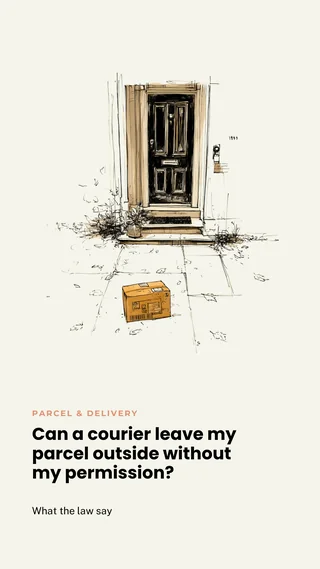
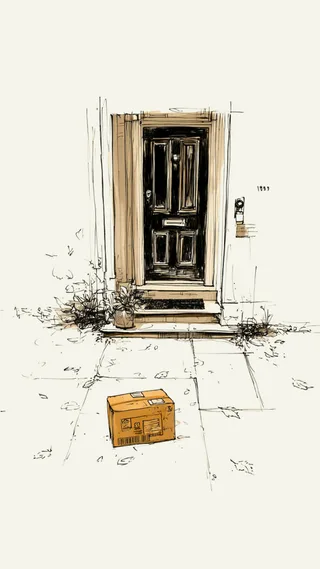
Parcel & Delivery questions: title-free card images, hero images, real card text
Same treatment as the Flights & Travel, Employment, Crypto & Fintech,
Food & Hospitality, Training & Education, Finance & Banking, Healthcare &
Medical, and Housing & Rentals batches, now for Parcel & Delivery
(5 articles), including the pillar page. This completes the treatment for
every question block listed in questions.html's tabs.

1. Replace the 5 small card images in images/questions/delivery-parcels/
   with new title-free versions — same filenames, same 1200x2133 dims —
   and regenerate the .webp/-320w.webp/-410w.webp variants from them.

2. Add a dedicated 1600x900 hero image to each of the 5 Parcel & Delivery
   question articles via the established .q-hero-image class (visible at
   all breakpoints, unlike the sitewide .hero-image which is display:none
   on mobile).

3. Fix /questions/ index cards (both "all" and "delivery-parcels" tab
   panels): title and category are now real HTML text
   (<h3 class="q-card-title">, <span class="q-card-category">) below
   each image, reusing the .q-card component from the earlier batches —
   no new CSS needed.

4. Fix the Parcel & Delivery pillar page (delivery-parcels.html): applied
   the same .q-card/.q-card-category/.q-card-title structure (wrapping
   the existing <picture>/webp markup) so title/category render as real
   text here too. Left the page's Calculators section (added in an
   earlier commit) untouched.

diff --git a/delivery-parcels.html b/delivery-parcels.html
@@ -495,28 +495,49 @@
        zero DOM nodes for them. Not a "Coming soon" message — nothing at all. -->
   <div id="chFutureSections"></div>
 
-  <!-- QUESTIONS — image-only cards, same .q-card-grid/.q-img-card component as
-       questions.html and the other pillar pages. Static (not JS-rendered like
-       Calculators/Cases/Investigations above) since this section, unlike those,
+  <!-- QUESTIONS — image + category + title cards, same .q-card-grid/.q-card
+       component as questions.html and the other pillar pages (title/category
+       are real HTML text, never baked into the image). Static (not JS-rendered
+       like Calculators/Cases/Investigations above) since this section, unlike those,
        isn't meant to silently disappear if empty. -->
   <section aria-labelledby="ch-questions-h2" style="margin-top: 56px;">
     <h2 id="ch-questions-h2" class="cl-hub-cat">Questions</h2>
     <p class="cl-hub-cat-sub">Real questions about lost, damaged, late, and undelivered parcels — answered with the exact US and UK law that applies. <a href="/questions">See all Questions →</a></p>
     <div class="q-card-grid">
-      <a class="q-img-card" href="/questions/delivery-parcels/can-courier-leave-parcel-outside-without-permission">
-        <picture><source srcset="/images/questions/delivery-parcels/can-courier-leave-parcel-outside-without-permission-320w.webp 320w, /images/questions/delivery-parcels/can-courier-leave-parcel-outside-without-permission-410w.webp 410w, /images/questions/delivery-parcels/can-courier-leave-parcel-outside-without-permission.webp 540w" sizes="(min-width: 960px) 265px, (min-width: 640px) 205px, 160px" type="image/webp"><img src="/images/questions/delivery-parcels/can-courier-leave-parcel-outside-without-permission.png" alt="Can a courier leave my parcel outside without my permission?" loading="lazy" width="1200" height="2133"></picture>
+      <a class="q-card" href="/questions/delivery-parcels/can-courier-leave-parcel-outside-without-permission">
+        <div class="q-img-card">
+          <picture><source srcset="/images/questions/delivery-parcels/can-courier-leave-parcel-outside-without-permission-320w.webp 320w, /images/questions/delivery-parcels/can-courier-leave-parcel-outside-without-permission-410w.webp 410w, /images/questions/delivery-parcels/can-courier-leave-parcel-outside-without-permission.webp 540w" sizes="(min-width: 960px) 265px, (min-width: 640px) 205px, 160px" type="image/webp"><img src="/images/questions/delivery-parcels/can-courier-leave-parcel-outside-without-permission.png" alt="Can a courier leave my parcel outside without my permission?" loading="lazy" width="1200" height="2133"></picture>
+        </div>
+        <span class="q-card-category">Parcel &amp; Delivery</span>
+        <h3 class="q-card-title">Can a courier leave my parcel outside without my permission?</h3>
       </a>
-      <a class="q-img-card" href="/questions/delivery-parcels/who-is-responsible-parcel-delivered-not-received">
-        <picture><source srcset="/images/questions/delivery-parcels/who-is-responsible-parcel-delivered-not-received-320w.webp 320w, /images/questions/delivery-parcels/who-is-responsible-parcel-delivered-not-received-410w.webp 410w, /images/questions/delivery-parcels/who-is-responsible-parcel-delivered-not-received.webp 540w" sizes="(min-width: 960px) 265px, (min-width: 640px) 205px, 160px" type="image/webp"><img src="/images/questions/delivery-parcels/who-is-responsible-parcel-delivered-not-received.png" alt="Who is responsible if my parcel says delivered but I never received it?" loading="lazy" width="1200" height="2133"></picture>
+      <a class="q-card" href="/questions/delivery-parcels/who-is-responsible-parcel-delivered-not-received">
+        <div class="q-img-card">
+          <picture><source srcset="/images/questions/delivery-parcels/who-is-responsible-parcel-delivered-not-received-320w.webp 320w, /images/questions/delivery-parcels/who-is-responsible-parcel-delivered-not-received-410w.webp 410w, /images/questions/delivery-parcels/who-is-responsible-parcel-delivered-not-received.webp 540w" sizes="(min-width: 960px) 265px, (min-width: 640px) 205px, 160px" type="image/webp"><img src="/images/questions/delivery-parcels/who-is-responsible-parcel-delivered-not-received.png" alt="Who is responsible if my parcel says delivered but I never received it?" loading="lazy" width="1200" height="2133"></picture>
+        </div>
+        <span class="q-card-category">Parcel &amp; Delivery</span>
+        <h3 class="q-card-title">Who is responsible if my parcel says delivered but I never received it?</h3>
       </a>
-      <a class="q-img-card" href="/questions/delivery-parcels/who-pays-courier-damages-package">
-        <picture><source srcset="/images/questions/delivery-parcels/who-pays-courier-damages-package-320w.webp 320w, /images/questions/delivery-parcels/who-pays-courier-damages-package-410w.webp 410w, /images/questions/delivery-parcels/who-pays-courier-damages-package.webp 540w" sizes="(min-width: 960px) 265px, (min-width: 640px) 205px, 160px" type="image/webp"><img src="/images/questions/delivery-parcels/who-pays-courier-damages-package.png" alt="Who pays if a courier damages my package?" loading="lazy" width="1200" height="2133"></picture>
+      <a class="q-card" href="/questions/delivery-parcels/who-pays-courier-damages-package">
+        <div class="q-img-card">
+          <picture><source srcset="/images/questions/delivery-parcels/who-pays-courier-damages-package-320w.webp 320w, /images/questions/delivery-parcels/who-pays-courier-damages-package-410w.webp 410w, /images/questions/delivery-parcels/who-pays-courier-damages-package.webp 540w" sizes="(min-width: 960px) 265px, (min-width: 640px) 205px, 160px" type="image/webp"><img src="/images/questions/delivery-parcels/who-pays-courier-damages-package.png" alt="Who pays if a courier damages my package?" loading="lazy" width="1200" height="2133"></picture>
+        </div>
+        <span class="q-card-category">Parcel &amp; Delivery</span>
+        <h3 class="q-card-title">Who pays if a courier damages my package?</h3>
       </a>
-      <a class="q-img-card" href="/questions/delivery-parcels/can-i-demand-refund-parcel-arrives-weeks-late">
-        <picture><source srcset="/images/questions/delivery-parcels/can-i-demand-refund-parcel-arrives-weeks-late-320w.webp 320w, /images/questions/delivery-parcels/can-i-demand-refund-parcel-arrives-weeks-late-410w.webp 410w, /images/questions/delivery-parcels/can-i-demand-refund-parcel-arrives-weeks-late.webp 540w" sizes="(min-width: 960px) 265px, (min-width: 640px) 205px, 160px" type="image/webp"><img src="/images/questions/delivery-parcels/can-i-demand-refund-parcel-arrives-weeks-late.png" alt="Can I demand a refund if my parcel arrives weeks late?" loading="lazy" width="1200" height="2133"></picture>
+      <a class="q-card" href="/questions/delivery-parcels/can-i-demand-refund-parcel-arrives-weeks-late">
+        <div class="q-img-card">
+          <picture><source srcset="/images/questions/delivery-parcels/can-i-demand-refund-parcel-arrives-weeks-late-320w.webp 320w, /images/questions/delivery-parcels/can-i-demand-refund-parcel-arrives-weeks-late-410w.webp 410w, /images/questions/delivery-parcels/can-i-demand-refund-parcel-arrives-weeks-late.webp 540w" sizes="(min-width: 960px) 265px, (min-width: 640px) 205px, 160px" type="image/webp"><img src="/images/questions/delivery-parcels/can-i-demand-refund-parcel-arrives-weeks-late.png" alt="Can I demand a refund if my parcel arrives weeks late?" loading="lazy" width="1200" height="2133"></picture>
+        </div>
+        <span class="q-card-category">Parcel &amp; Delivery</span>
+        <h3 class="q-card-title">Can I demand a refund if my parcel arrives weeks late?</h3>
       </a>
-      <a class="q-img-card" href="/questions/delivery-parcels/can-seller-blame-courier-order-arrives-damaged">
-        <picture><source srcset="/images/questions/delivery-parcels/can-seller-blame-courier-order-arrives-damaged-320w.webp 320w, /images/questions/delivery-parcels/can-seller-blame-courier-order-arrives-damaged-410w.webp 410w, /images/questions/delivery-parcels/can-seller-blame-courier-order-arrives-damaged.webp 540w" sizes="(min-width: 960px) 265px, (min-width: 640px) 205px, 160px" type="image/webp"><img src="/images/questions/delivery-parcels/can-seller-blame-courier-order-arrives-damaged.png" alt="Can a seller blame the courier when my order arrives damaged?" loading="lazy" width="1200" height="2133"></picture>
+      <a class="q-card" href="/questions/delivery-parcels/can-seller-blame-courier-order-arrives-damaged">
+        <div class="q-img-card">
+          <picture><source srcset="/images/questions/delivery-parcels/can-seller-blame-courier-order-arrives-damaged-320w.webp 320w, /images/questions/delivery-parcels/can-seller-blame-courier-order-arrives-damaged-410w.webp 410w, /images/questions/delivery-parcels/can-seller-blame-courier-order-arrives-damaged.webp 540w" sizes="(min-width: 960px) 265px, (min-width: 640px) 205px, 160px" type="image/webp"><img src="/images/questions/delivery-parcels/can-seller-blame-courier-order-arrives-damaged.png" alt="Can a seller blame the courier when my order arrives damaged?" loading="lazy" width="1200" height="2133"></picture>
+        </div>
+        <span class="q-card-category">Parcel &amp; Delivery</span>
+        <h3 class="q-card-title">Can a seller blame the courier when my order arrives damaged?</h3>
       </a>
     </div>
   </section>

diff --git a/questions.html b/questions.html
@@ -601,20 +601,40 @@
           <span class="q-card-category">Housing &amp; Rentals</span>
           <h3 class="q-card-title">Can my landlord keep my deposit because I didn&#39;t repaint the walls?</h3>
         </a>
-        <a class="q-img-card" href="/questions/delivery-parcels/can-courier-leave-parcel-outside-without-permission">
-          <img src="/images/questions/delivery-parcels/can-courier-leave-parcel-outside-without-permission.png" alt="Can a courier leave my parcel outside without my permission?" loading="lazy" width="1200" height="2133">
+        <a class="q-card" href="/questions/delivery-parcels/can-courier-leave-parcel-outside-without-permission">
+          <div class="q-img-card">
+            <img src="/images/questions/delivery-parcels/can-courier-leave-parcel-outside-without-permission.png" alt="Can a courier leave my parcel outside without my permission?" loading="lazy" width="1200" height="2133">
+          </div>
+          <span class="q-card-category">Parcel &amp; Delivery</span>
+          <h3 class="q-card-title">Can a courier leave my parcel outside without my permission?</h3>
         </a>
-        <a class="q-img-card" href="/questions/delivery-parcels/who-is-responsible-parcel-delivered-not-received">
-          <img src="/images/questions/delivery-parcels/who-is-responsible-parcel-delivered-not-received.png" alt="Who is responsible if my parcel says delivered but I never received it?" loading="lazy" width="1200" height="2133">
+        <a class="q-card" href="/questions/delivery-parcels/who-is-responsible-parcel-delivered-not-received">
+          <div class="q-img-card">
+            <img src="/images/questions/delivery-parcels/who-is-responsible-parcel-delivered-not-received.png" alt="Who is responsible if my parcel says delivered but I never received it?" loading="lazy" width="1200" height="2133">
+          </div>
+          <span class="q-card-category">Parcel &amp; Delivery</span>
+          <h3 class="q-card-title">Who is responsible if my parcel says delivered but I never received it?</h3>
         </a>
-        <a class="q-img-card" href="/questions/delivery-parcels/who-pays-courier-damages-package">
-          <img src="/images/questions/delivery-parcels/who-pays-courier-damages-package.png" alt="Who pays if a courier damages my package?" loading="lazy" width="1200" height="2133">
+        <a class="q-card" href="/questions/delivery-parcels/who-pays-courier-damages-package">
+          <div class="q-img-card">
+            <img src="/images/questions/delivery-parcels/who-pays-courier-damages-package.png" alt="Who pays if a courier damages my package?" loading="lazy" width="1200" height="2133">
+          </div>
+          <span class="q-card-category">Parcel &amp; Delivery</span>
+          <h3 class="q-card-title">Who pays if a courier damages my package?</h3>
         </a>
-        <a class="q-img-card" href="/questions/delivery-parcels/can-i-demand-refund-parcel-arrives-weeks-late">
-          <img src="/images/questions/delivery-parcels/can-i-demand-refund-parcel-arrives-weeks-late.png" alt="Can I demand a refund if my parcel arrives weeks late?" loading="lazy" width="1200" height="2133">
+        <a class="q-card" href="/questions/delivery-parcels/can-i-demand-refund-parcel-arrives-weeks-late">
+          <div class="q-img-card">
+            <img src="/images/questions/delivery-parcels/can-i-demand-refund-parcel-arrives-weeks-late.png" alt="Can I demand a refund if my parcel arrives weeks late?" loading="lazy" width="1200" height="2133">
+          </div>
+          <span class="q-card-category">Parcel &amp; Delivery</span>
+          <h3 class="q-card-title">Can I demand a refund if my parcel arrives weeks late?</h3>
         </a>
-        <a class="q-img-card" href="/questions/delivery-parcels/can-seller-blame-courier-order-arrives-damaged">
-          <img src="/images/questions/delivery-parcels/can-seller-blame-courier-order-arrives-damaged.png" alt="Can a seller blame the courier when my order arrives damaged?" loading="lazy" width="1200" height="2133">
+        <a class="q-card" href="/questions/delivery-parcels/can-seller-blame-courier-order-arrives-damaged">
+          <div class="q-img-card">
+            <img src="/images/questions/delivery-parcels/can-seller-blame-courier-order-arrives-damaged.png" alt="Can a seller blame the courier when my order arrives damaged?" loading="lazy" width="1200" height="2133">
+          </div>
+          <span class="q-card-category">Parcel &amp; Delivery</span>
+          <h3 class="q-card-title">Can a seller blame the courier when my order arrives damaged?</h3>
         </a>
       </div>
     </div>
@@ -941,20 +961,40 @@
 
     <div class="qh-tool-panel" data-toolpanel="delivery-parcels">
       <div class="q-card-grid">
-        <a class="q-img-card" href="/questions/delivery-parcels/can-courier-leave-parcel-outside-without-permission">
-          <img src="/images/questions/delivery-parcels/can-courier-leave-parcel-outside-without-permission.png" alt="Can a courier leave my parcel outside without my permission?" loading="lazy" width="1200" height="2133">
+        <a class="q-card" href="/questions/delivery-parcels/can-courier-leave-parcel-outside-without-permission">
+          <div class="q-img-card">
+            <img src="/images/questions/delivery-parcels/can-courier-leave-parcel-outside-without-permission.png" alt="Can a courier leave my parcel outside without my permission?" loading="lazy" width="1200" height="2133">
+          </div>
+          <span class="q-card-category">Parcel &amp; Delivery</span>
+          <h3 class="q-card-title">Can a courier leave my parcel outside without my permission?</h3>
         </a>
-        <a class="q-img-card" href="/questions/delivery-parcels/who-is-responsible-parcel-delivered-not-received">
-          <img src="/images/questions/delivery-parcels/who-is-responsible-parcel-delivered-not-received.png" alt="Who is responsible if my parcel says delivered but I never received it?" loading="lazy" width="1200" height="2133">
+        <a class="q-card" href="/questions/delivery-parcels/who-is-responsible-parcel-delivered-not-received">
+          <div class="q-img-card">
+            <img src="/images/questions/delivery-parcels/who-is-responsible-parcel-delivered-not-received.png" alt="Who is responsible if my parcel says delivered but I never received it?" loading="lazy" width="1200" height="2133">
+          </div>
+          <span class="q-card-category">Parcel &amp; Delivery</span>
+          <h3 class="q-card-title">Who is responsible if my parcel says delivered but I never received it?</h3>
         </a>
-        <a class="q-img-card" href="/questions/delivery-parcels/who-pays-courier-damages-package">
-          <img src="/images/questions/delivery-parcels/who-pays-courier-damages-package.png" alt="Who pays if a courier damages my package?" loading="lazy" width="1200" height="2133">
+        <a class="q-card" href="/questions/delivery-parcels/who-pays-courier-damages-package">
+          <div class="q-img-card">
+            <img src="/images/questions/delivery-parcels/who-pays-courier-damages-package.png" alt="Who pays if a courier damages my package?" loading="lazy" width="1200" height="2133">
+          </div>
+          <span class="q-card-category">Parcel &amp; Delivery</span>
+          <h3 class="q-card-title">Who pays if a courier damages my package?</h3>
         </a>
-        <a class="q-img-card" href="/questions/delivery-parcels/can-i-demand-refund-parcel-arrives-weeks-late">
-          <img src="/images/questions/delivery-parcels/can-i-demand-refund-parcel-arrives-weeks-late.png" alt="Can I demand a refund if my parcel arrives weeks late?" loading="lazy" width="1200" height="2133">
+        <a class="q-card" href="/questions/delivery-parcels/can-i-demand-refund-parcel-arrives-weeks-late">
+          <div class="q-img-card">
+            <img src="/images/questions/delivery-parcels/can-i-demand-refund-parcel-arrives-weeks-late.png" alt="Can I demand a refund if my parcel arrives weeks late?" loading="lazy" width="1200" height="2133">
+          </div>
+          <span class="q-card-category">Parcel &amp; Delivery</span>
+          <h3 class="q-card-title">Can I demand a refund if my parcel arrives weeks late?</h3>
         </a>
-        <a class="q-img-card" href="/questions/delivery-parcels/can-seller-blame-courier-order-arrives-damaged">
-          <img src="/images/questions/delivery-parcels/can-seller-blame-courier-order-arrives-damaged.png" alt="Can a seller blame the courier when my order arrives damaged?" loading="lazy" width="1200" height="2133">
+        <a class="q-card" href="/questions/delivery-parcels/can-seller-blame-courier-order-arrives-damaged">
+          <div class="q-img-card">
+            <img src="/images/questions/delivery-parcels/can-seller-blame-courier-order-arrives-damaged.png" alt="Can a seller blame the courier when my order arrives damaged?" loading="lazy" width="1200" height="2133">
+          </div>
+          <span class="q-card-category">Parcel &amp; Delivery</span>
+          <h3 class="q-card-title">Can a seller blame the courier when my order arrives damaged?</h3>
         </a>
       </div>
     </div>

diff --git a/questions/delivery-parcels/who-is-responsible-parcel-delivered-not-received.html b/questions/delivery-parcels/who-is-responsible-parcel-delivered-not-received.html
@@ -117,6 +117,8 @@
   .wrap { max-width: 720px; margin: 0 auto; padding: 0 24px; }
   .q-header { padding: 56px 0 28px; }
   .q-category { display: inline-block; font-family: var(--font-sans); font-size: 13px; font-weight: 700; letter-spacing: 1.2px; text-transform: uppercase; color: var(--accent-terra); margin-bottom: 18px; }
+  /* Visible at ALL breakpoints, unlike the sitewide .hero-image class (display:none on mobile). */
+  .q-hero-image { display: block; width: 100%; max-width: 100%; height: auto; border-radius: 12px; margin: 0 0 24px; }
   .q-header h1 { font-family: var(--font-serif); font-size: 36px; font-weight: 800; line-height: 1.25; margin-bottom: 16px; }
   .q-dek { font-size: 18px; color: var(--text-secondary); max-width: 620px; }
   .q-meta { display: flex; gap: 18px; margin-top: 20px; font-size: 13px; color: var(--text-secondary); }
@@ -342,6 +344,7 @@
 
   <header class="q-header">
     <span class="q-category">Parcel &amp; Delivery · US &amp; UK</span>
+    <img class="q-hero-image" src="/images/questions/delivery-parcels/who-is-responsible-parcel-delivered-not-received-hero.png" width="1600" height="900" alt="Who is responsible if my parcel says delivered but I never received it?" loading="eager" fetchpriority="high">
     <h1>Who is responsible if my parcel says delivered but I never received it?</h1>
     <p class="q-dek">A tracking status isn't a legal handoff — and the retailer knows that better than most customers do.</p>
     <div class="q-meta">

diff --git a/questions/delivery-parcels/can-seller-blame-courier-order-arrives-damaged.html b/questions/delivery-parcels/can-seller-blame-courier-order-arrives-damaged.html
@@ -117,6 +117,8 @@
   .wrap { max-width: 720px; margin: 0 auto; padding: 0 24px; }
   .q-header { padding: 56px 0 28px; }
   .q-category { display: inline-block; font-family: var(--font-sans); font-size: 13px; font-weight: 700; letter-spacing: 1.2px; text-transform: uppercase; color: var(--accent-terra); margin-bottom: 18px; }
+  /* Visible at ALL breakpoints, unlike the sitewide .hero-image class (display:none on mobile). */
+  .q-hero-image { display: block; width: 100%; max-width: 100%; height: auto; border-radius: 12px; margin: 0 0 24px; }
   .q-header h1 { font-family: var(--font-serif); font-size: 36px; font-weight: 800; line-height: 1.25; margin-bottom: 16px; }
   .q-dek { font-size: 18px; color: var(--text-secondary); max-width: 620px; }
   .q-meta { display: flex; gap: 18px; margin-top: 20px; font-size: 13px; color: var(--text-secondary); }
@@ -342,6 +344,7 @@
 
   <header class="q-header">
     <span class="q-category">Parcel &amp; Delivery · US &amp; UK</span>
+    <img class="q-hero-image" src="/images/questions/delivery-parcels/can-seller-blame-courier-order-arrives-damaged-hero.png" width="1600" height="900" alt="Can a seller blame the courier when my order arrives damaged?" loading="eager" fetchpriority="high">
     <h1>Can a seller blame the courier when my order arrives damaged?</h1>
     <p class="q-dek">"It's not our fault" and "it's not our problem to fix" are two very different claims — only one of them is actually true.</p>
     <div class="q-meta">

diff --git a/questions/delivery-parcels/can-courier-leave-parcel-outside-without-permission.html b/questions/delivery-parcels/can-courier-leave-parcel-outside-without-permission.html
@@ -117,6 +117,8 @@
   .wrap { max-width: 720px; margin: 0 auto; padding: 0 24px; }
   .q-header { padding: 56px 0 28px; }
   .q-category { display: inline-block; font-family: var(--font-sans); font-size: 13px; font-weight: 700; letter-spacing: 1.2px; text-transform: uppercase; color: var(--accent-terra); margin-bottom: 18px; }
+  /* Visible at ALL breakpoints, unlike the sitewide .hero-image class (display:none on mobile). */
+  .q-hero-image { display: block; width: 100%; max-width: 100%; height: auto; border-radius: 12px; margin: 0 0 24px; }
   .q-header h1 { font-family: var(--font-serif); font-size: 36px; font-weight: 800; line-height: 1.25; margin-bottom: 16px; }
   .q-dek { font-size: 18px; color: var(--text-secondary); max-width: 620px; }
   .q-meta { display: flex; gap: 18px; margin-top: 20px; font-size: 13px; color: var(--text-secondary); }
@@ -342,6 +344,7 @@
 
   <header class="q-header">
     <span class="q-category">Parcel &amp; Delivery · US &amp; UK</span>
+    <img class="q-hero-image" src="/images/questions/delivery-parcels/can-courier-leave-parcel-outside-without-permission-hero.png" width="1600" height="900" alt="Can a courier leave my parcel outside without my permission?" loading="eager" fetchpriority="high">
     <h1>Can a courier leave my parcel outside without my permission?</h1>
     <p class="q-dek">A courier's convenience isn't the same thing as your consent — and the difference matters if the parcel disappears.</p>
     <div class="q-meta">

diff --git a/questions/delivery-parcels/can-i-demand-refund-parcel-arrives-weeks-late.html b/questions/delivery-parcels/can-i-demand-refund-parcel-arrives-weeks-late.html
@@ -117,6 +117,8 @@
   .wrap { max-width: 720px; margin: 0 auto; padding: 0 24px; }
   .q-header { padding: 56px 0 28px; }
   .q-category { display: inline-block; font-family: var(--font-sans); font-size: 13px; font-weight: 700; letter-spacing: 1.2px; text-transform: uppercase; color: var(--accent-terra); margin-bottom: 18px; }
+  /* Visible at ALL breakpoints, unlike the sitewide .hero-image class (display:none on mobile). */
+  .q-hero-image { display: block; width: 100%; max-width: 100%; height: auto; border-radius: 12px; margin: 0 0 24px; }
   .q-header h1 { font-family: var(--font-serif); font-size: 36px; font-weight: 800; line-height: 1.25; margin-bottom: 16px; }
   .q-dek { font-size: 18px; color: var(--text-secondary); max-width: 620px; }
   .q-meta { display: flex; gap: 18px; margin-top: 20px; font-size: 13px; color: var(--text-secondary); }
@@ -342,6 +344,7 @@
 
   <header class="q-header">
     <span class="q-category">Parcel &amp; Delivery · US &amp; UK</span>
+    <img class="q-hero-image" src="/images/questions/delivery-parcels/can-i-demand-refund-parcel-arrives-weeks-late-hero.png" width="1600" height="900" alt="Can I demand a refund if my parcel arrives weeks late?" loading="eager" fetchpriority="high">
     <h1>Can I demand a refund if my parcel arrives weeks late?</h1>
     <p class="q-dek">Thirty days is the number both systems keep coming back to — and it's not just a guideline, it's a legal trigger point.</p>
     <div class="q-meta">

diff --git a/questions/delivery-parcels/who-pays-courier-damages-package.html b/questions/delivery-parcels/who-pays-courier-damages-package.html
@@ -117,6 +117,8 @@
   .wrap { max-width: 720px; margin: 0 auto; padding: 0 24px; }
   .q-header { padding: 56px 0 28px; }
   .q-category { display: inline-block; font-family: var(--font-sans); font-size: 13px; font-weight: 700; letter-spacing: 1.2px; text-transform: uppercase; color: var(--accent-terra); margin-bottom: 18px; }
+  /* Visible at ALL breakpoints, unlike the sitewide .hero-image class (display:none on mobile). */
+  .q-hero-image { display: block; width: 100%; max-width: 100%; height: auto; border-radius: 12px; margin: 0 0 24px; }
   .q-header h1 { font-family: var(--font-serif); font-size: 36px; font-weight: 800; line-height: 1.25; margin-bottom: 16px; }
   .q-dek { font-size: 18px; color: var(--text-secondary); max-width: 620px; }
   .q-meta { display: flex; gap: 18px; margin-top: 20px; font-size: 13px; color: var(--text-secondary); }
@@ -342,6 +344,7 @@
 
   <header class="q-header">
     <span class="q-category">Parcel &amp; Delivery · US &amp; UK</span>
+    <img class="q-hero-image" src="/images/questions/delivery-parcels/who-pays-courier-damages-package-hero.png" width="1600" height="900" alt="Who pays if a courier damages my package?" loading="eager" fetchpriority="high">
     <h1>Who pays if a courier damages my package?</h1>
     <p class="q-dek">The seller sorting things out with their courier is their problem to solve — not yours to referee.</p>
     <div class="q-meta">
